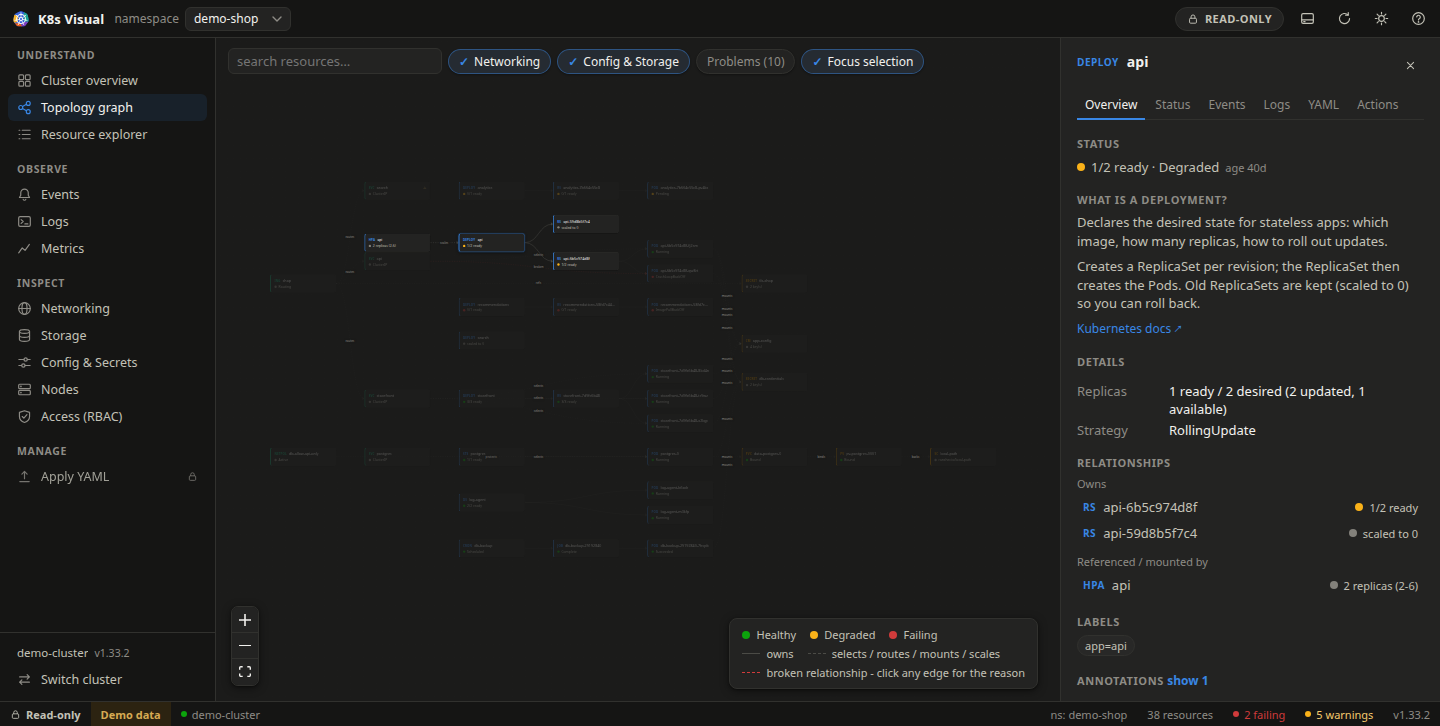
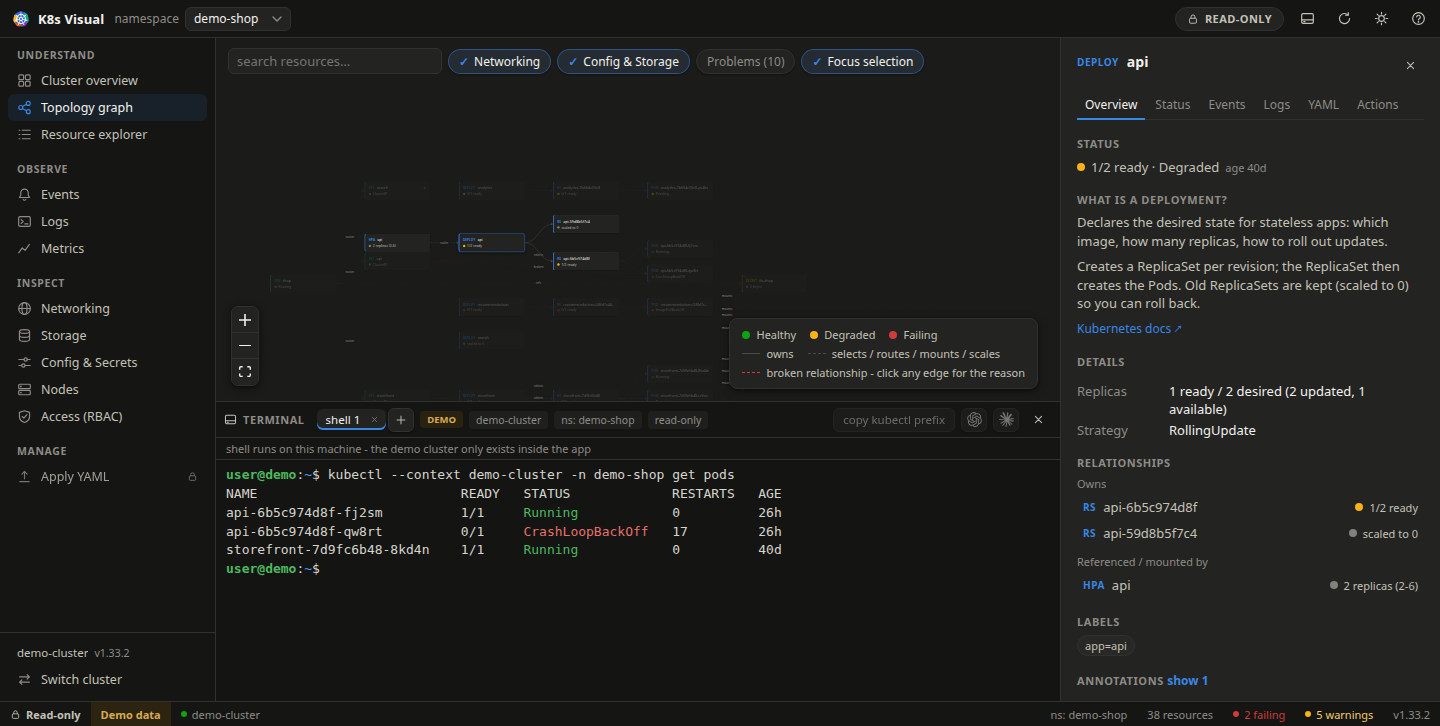
Prepare 1.0.0: production polish, release packaging, repo hygiene

diff --git a/src/components/TerminalPanel.tsx b/src/components/TerminalPanel.tsx
@@ -5,10 +5,10 @@ import { FitAddon } from "@xterm/addon-fit";
 import { WebglAddon } from "@xterm/addon-webgl";
 import "@xterm/xterm/css/xterm.css";
 
-import { analyzeCommand, kubectlPrefix, type AiToolStatus } from "../ai";
+import { AI_TOOL_LINKS, analyzeCommand, kubectlPrefix, type AiToolStatus } from "../ai";
 import { inTauri } from "../providers/tauri";
 import type { ClusterInfo } from "../types";
-import { cloudTag, type Theme } from "../utils";
+import { cloudTag, openExternal, type Theme } from "../utils";
 import { AiLogo, Icon } from "./icons";
 
 export interface TerminalPanelProps {
@@ -21,7 +21,10 @@ export interface TerminalPanelProps {
   aiTools: AiToolStatus[] | null;
   /** Text to type into the shell (NOT executed - the user reviews and hits Enter). */
   pendingInput: string | null;
+  /** Show install instructions for a missing tool (set by quick actions elsewhere). */
+  pendingHint: "codex" | "claude" | null;
   onConsumedInput(): void;
+  onConsumedHint(): void;
   onClose(): void;
 }
 
@@ -267,7 +270,9 @@ export function TerminalPanel({
   theme,
   aiTools,
   pendingInput,
+  pendingHint,
   onConsumedInput,
+  onConsumedHint,
   onClose,
 }: TerminalPanelProps) {
   const [height, setHeight] = useState(300);
@@ -313,8 +318,19 @@ export function TerminalPanel({
     setCopied(true);
     setTimeout(() => setCopied(false), 1200);
   };
+  const [installHint, setInstallHint] = useState<AiToolStatus | null>(null);
+  useEffect(() => {
+    if (pendingHint === null) return;
+    const tool = (aiTools ?? []).find((t) => t.id === pendingHint);
+    if (tool) setInstallHint(tool);
+    onConsumedHint();
+  }, [pendingHint, aiTools, onConsumedHint]);
   const openTool = (tool: AiToolStatus) => {
-    if (!tool.installed) return;
+    if (!tool.installed) {
+      setInstallHint(tool); // friendly pointer instead of a shell error
+      return;
+    }
+    setInstallHint(null);
     onConsumedInput(); // drop any stale pending input
     // Typed with Enter: launching the tool is the explicit user action here.
     void invokeActive(`${tool.id}\r`);
@@ -389,13 +405,12 @@ export function TerminalPanel({
         {(aiTools ?? []).map((tool) => (
           <button
             key={tool.id}
-            className="term-btn term-ai"
-            disabled={!tool.installed}
+            className={`term-btn term-ai${tool.installed ? "" : " missing"}`}
             aria-label={tool.name}
             title={
               tool.installed
                 ? `Open ${tool.name} in the active session${tool.version ? ` (${tool.version})` : ""}. Nothing is sent automatically.`
-                : `${tool.name} not found on PATH - install it to use AI assistance here`
+                : `${tool.name} is not installed - click for install instructions`
             }
             onClick={() => openTool(tool)}
           >
@@ -413,6 +428,25 @@ export function TerminalPanel({
         </div>
       )}
 
+      {installHint && (
+        <div className="term-install-hint">
+          <AiLogo tool={installHint.id} size={14} />
+          <span className="term-guard-msg">
+            <strong>{installHint.name}</strong> is not installed on this machine. Install it, then reopen
+            the terminal - the button lights up automatically once it is on your PATH.
+          </span>
+          <button
+            className="btn primary"
+            onClick={() => void openExternal(AI_TOOL_LINKS[installHint.id])}
+          >
+            Get {installHint.name} ↗
+          </button>
+          <button className="btn" onClick={() => setInstallHint(null)}>
+            Dismiss
+          </button>
+        </div>
+      )}
+
       {inTauri() ? (
         sessions.map((key) => (
           <TermSession
@@ -426,6 +460,18 @@ export function TerminalPanel({
             onConsumedInput={consumeCombined}
           />
         ))
+      ) : new URLSearchParams(window.location.search).has("termmock") ? (
+        // Docs/screenshot stand-in for the real PTY (browser demo only): shows
+        // what a session looks like without pretending a browser can host one.
+        <pre className="terminal-body term-mock" aria-hidden>
+          <span className="tm-p">user@demo</span>:<span className="tm-d">~</span>$ kubectl --context demo-cluster
+          -n demo-shop get pods{"\n"}
+          NAME                          READY   STATUS             RESTARTS   AGE{"\n"}
+          api-6b5c974d8f-fj2sm          1/1     <span className="tm-ok">Running</span>            0          26h{"\n"}
+          api-6b5c974d8f-qw8rt          0/1     <span className="tm-err">CrashLoopBackOff</span>   17         26h{"\n"}
+          storefront-7d9fc6b48-8kd4n    1/1     <span className="tm-ok">Running</span>            0          40d{"\n"}
+          <span className="tm-p">user@demo</span>:<span className="tm-d">~</span>$ <span className="tm-cursor">▊</span>
+        </pre>
       ) : (
         <div className="terminal-placeholder">
           The integrated terminal needs the desktop app - a browser tab cannot host a shell.

diff --git a/src/styles.css b/src/styles.css
@@ -768,6 +768,26 @@ input[type="checkbox"]:focus-visible {
   background: var(--chrome);
 }
 
+/* a missing AI tool stays clickable - the click explains how to install it */
+.term-btn.term-ai.missing {
+  opacity: 0.55;
+}
+
+.term-btn.term-ai.missing:hover {
+  opacity: 0.85;
+}
+
+.term-install-hint {
+  display: flex;
+  align-items: center;
+  gap: 10px;
+  padding: 7px 10px;
+  font-size: 12px;
+  color: var(--ink-2);
+  border-bottom: 1px solid var(--grid);
+  background: color-mix(in srgb, var(--series-1) 7%, var(--surface));
+}
+
 .term-spacer {
   flex: 1;
 }
@@ -792,6 +812,30 @@ input[type="checkbox"]:focus-visible {
 /* the guard bar sits above the session body */
 .terminal-guard {
   flex: none;
+}
+
+/* docs screenshot stand-in for a live session (browser + ?termmock only) */
+.term-mock {
+  margin: 0;
+  font-family: var(--font-mono);
+  font-size: 13px;
+  line-height: 1.45;
+  color: #d6d5cd;
+  overflow: auto;
+}
+
+[data-theme="light"] .term-mock {
+  color: #33322f;
+}
+
+.term-mock .tm-p { color: #4cb85f; font-weight: 600; }
+.term-mock .tm-d { color: #539bf5; }
+.term-mock .tm-ok { color: #4cb85f; }
+.term-mock .tm-err { color: #e5716a; }
+.term-mock .tm-cursor { animation: cursor-blink 1.1s steps(1) infinite; }
+
+@keyframes cursor-blink {
+  50% { opacity: 0; }
 }
 
 .terminal-placeholder {

diff --git a/src/App.tsx b/src/App.tsx
@@ -70,6 +70,7 @@ export default function App() {
   const [termMounted, setTermMounted] = useState(false);
   const [termVisible, setTermVisible] = useState(false);
   const [termInput, setTermInput] = useState<string | null>(null);
+  const [termHint, setTermHint] = useState<"codex" | "claude" | null>(null);
   const [aiTools, setAiTools] = useState<AiToolStatus[] | null>(null);
   const toggleTerminal = useCallback(() => {
     setTermMounted(true);
@@ -404,7 +405,9 @@ export default function App() {
               theme={theme}
               aiTools={aiTools}
               pendingInput={termInput}
+              pendingHint={termHint}
               onConsumedInput={() => setTermInput(null)}
+              onConsumedHint={() => setTermHint(null)}
               onClose={() => setTermVisible(false)}
             />
           </Suspense>
@@ -422,7 +425,15 @@ export default function App() {
             terminal={{
               tools: aiTools,
               open: () => openTerminalWith(null),
-              ask: (tool, r, issues) => openTerminalWith(askAiCommand(tool, buildResourceSummary(r, issues))),
+              ask: (tool, r, issues) => {
+                if (aiTools?.find((t) => t.id === tool)?.installed) {
+                  openTerminalWith(askAiCommand(tool, buildResourceSummary(r, issues)));
+                } else {
+                  // point at install instructions instead of a shell error
+                  openTerminalWith(null);
+                  setTermHint(tool);
+                }
+              },
               copySummary: (r, issues) =>
                 void navigator.clipboard.writeText(buildResourceSummary(r, issues)),
             }}

diff --git a/src/views/MetricsView.tsx b/src/views/MetricsView.tsx
@@ -268,12 +268,11 @@ export function MetricsView({ provider, namespace, snapshot, overview, history }
         <EmptyMsg>
           <p>{metrics.reason ?? "Metrics API is not available in this cluster."}</p>
           <p>
-            K8s Visual reads <code>metrics.k8s.io</code> (the same API as <code>kubectl top</code>) and never
-            invents numbers - install{" "}
+            This view reads <code>metrics.k8s.io</code>, the same API <code>kubectl top</code> uses. Install{" "}
             <a href="https://github.com/kubernetes-sigs/metrics-server" target="_blank" rel="noreferrer">
               metrics-server
             </a>{" "}
-            to see live usage here.
+            in the cluster to see live usage here.
           </p>
         </EmptyMsg>
       </div>
@@ -290,8 +289,8 @@ export function MetricsView({ provider, namespace, snapshot, overview, history }
         Metrics <span className="h2-sub">- kubectl top with short-term history · {namespace}</span>
       </h2>
       <p className="about">
-        Live usage from the Metrics API, sampled every 5s while the app is open. Trends cover only this session -
-        K8s Visual does not fake historical data it doesn't have.
+        Live usage from the Metrics API, sampled every 5 seconds while the app is open. Trends cover the
+        current session.
       </p>
 
       <div className="trend-cards">

diff --git a/src/ai.ts b/src/ai.ts
@@ -24,6 +24,12 @@ const NOT_AVAILABLE: AiToolStatus[] = [
   { id: "claude", name: "Claude Code", installed: false },
 ];
 
+/** Where to get each tool - shown when the user clicks one that is missing. */
+export const AI_TOOL_LINKS: Record<AiToolStatus["id"], string> = {
+  claude: "https://claude.com/claude-code",
+  codex: "https://github.com/openai/codex",
+};
+
 /** Detect installed AI CLIs (desktop app only; detection never sends data). */
 export async function detectAiTools(): Promise<AiToolStatus[]> {
   if (!inTauri()) return NOT_AVAILABLE;

diff --git a/src/components/DetailsPanel.tsx b/src/components/DetailsPanel.tsx
@@ -632,11 +632,10 @@ function TerminalAiBox({ resource: r, issues, terminal }: Props) {
           <button
             key={tool.id}
             className="chip"
-            disabled={!tool.installed}
             title={
               tool.installed
                 ? `Type a sanitized ${r.kind} summary into ${tool.name} for review`
-                : `${tool.name} not found on PATH`
+                : `${tool.name} is not installed - click for install instructions`
             }
             onClick={() => terminal.ask(tool.id, r, issues)}
           >

diff --git a/README.md b/README.md
@@ -11,13 +11,11 @@ debugging, and managing clusters - with a built-in terminal and optional AI
 CLI integration.
 
 ![License: MIT](https://img.shields.io/badge/license-MIT-blue.svg)
-![Platform: Linux](https://img.shields.io/badge/platform-Linux-lightgrey.svg)
+![Linux](https://img.shields.io/badge/Linux-available-2ea44f.svg)
+![macOS & Windows](https://img.shields.io/badge/macOS%20%26%20Windows-in%20progress-orange.svg)
 ![Built with Tauri](https://img.shields.io/badge/built%20with-Tauri%202-24C8DB.svg)
 
-<picture>
-  <source media="(prefers-color-scheme: dark)" srcset="docs/screenshot-dark.png">
-  <img src="docs/screenshot-light.png" alt="K8s Visual showing a namespace as a graph: Ingress routes to Services, a Deployment owns ReplicaSets, ReplicaSets run Pods, and Pods mount ConfigMaps and Secrets. A details panel explains the selected Deployment with tabs for status, events, logs, YAML and actions." width="920">
-</picture>
+<img src="docs/screenshot-dark.png" alt="K8s Visual: a namespace drawn as a live graph (Ingress routes to Services, a Deployment owns ReplicaSets, ReplicaSets run Pods, Pods mount ConfigMaps and Secrets), a details panel explaining the selected Deployment, and the integrated terminal open at the bottom with context, namespace and AI CLI buttons." width="920">
 
 </div>
 
@@ -150,15 +148,22 @@ behind every operation. If something is unavailable - a missing metrics API,
 a missing permission - the app tells you exactly what is missing instead of
 pretending.
 
-## Install (Linux)
+## Install
 
-Download the latest **AppImage** (works on any distro), **.deb**, or
-**.rpm** from the [Releases page](../../releases).
+**Linux is available today; macOS and Windows builds are in progress.**
+
+Download the latest package from the [Releases page](../../releases):
 
 ```sh
-# AppImage: make it executable and run
-chmod +x K8s.Visual_*.AppImage
-./K8s.Visual_*.AppImage
+# Debian / Ubuntu (.deb)
+sudo dpkg -i "K8s Visual_1.0.0_amd64.deb"
+
+# Fedora / openSUSE / RHEL (.rpm)
+sudo rpm -i "K8s Visual-1.0.0-1.x86_64.rpm"
+
+# Any distro (portable AppImage)
+chmod +x "K8s Visual_1.0.0_amd64.AppImage"
+./"K8s Visual_1.0.0_amd64.AppImage"
 ```
 
 No Kubernetes tooling is required to try it - hit **"Explore the demo
@@ -174,7 +179,7 @@ cluster"** on the welcome screen.
   `aws` / `az` / `gcloud` for cloud connect; `claude` / `codex` for AI
   assistance
 
-> Windows and macOS builds are on the roadmap; the codebase is
+> macOS and Windows builds are actively in progress; the codebase is
 > cross-platform by construction (Tauri), Linux is simply first.
 
 ## Build from source
@@ -239,7 +244,7 @@ reach the UI); watch-based streaming is on the roadmap.
 - [ ] Command palette
 - [ ] Collapse/expand groups for very large namespaces
 - [ ] Gateway API resources (HTTPRoute)
-- [ ] Windows and macOS builds, Flatpak/AUR packaging
+- [ ] macOS and Windows builds (in progress), Flatpak/AUR packaging
 - [ ] Multi-cluster side-by-side
 
 ## Contributing